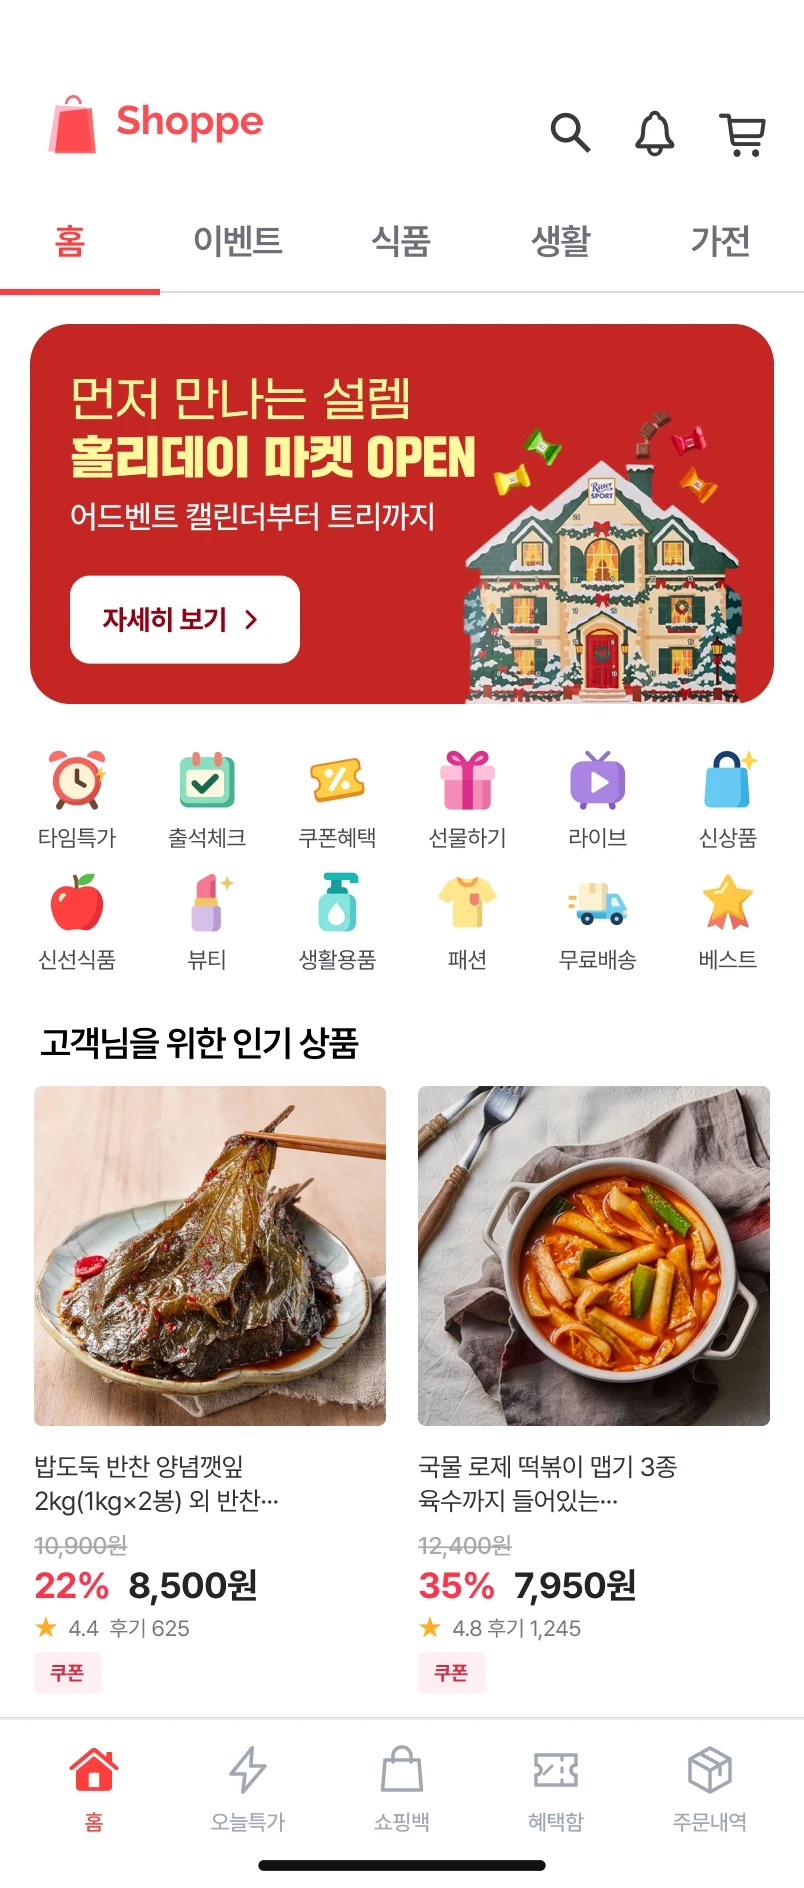
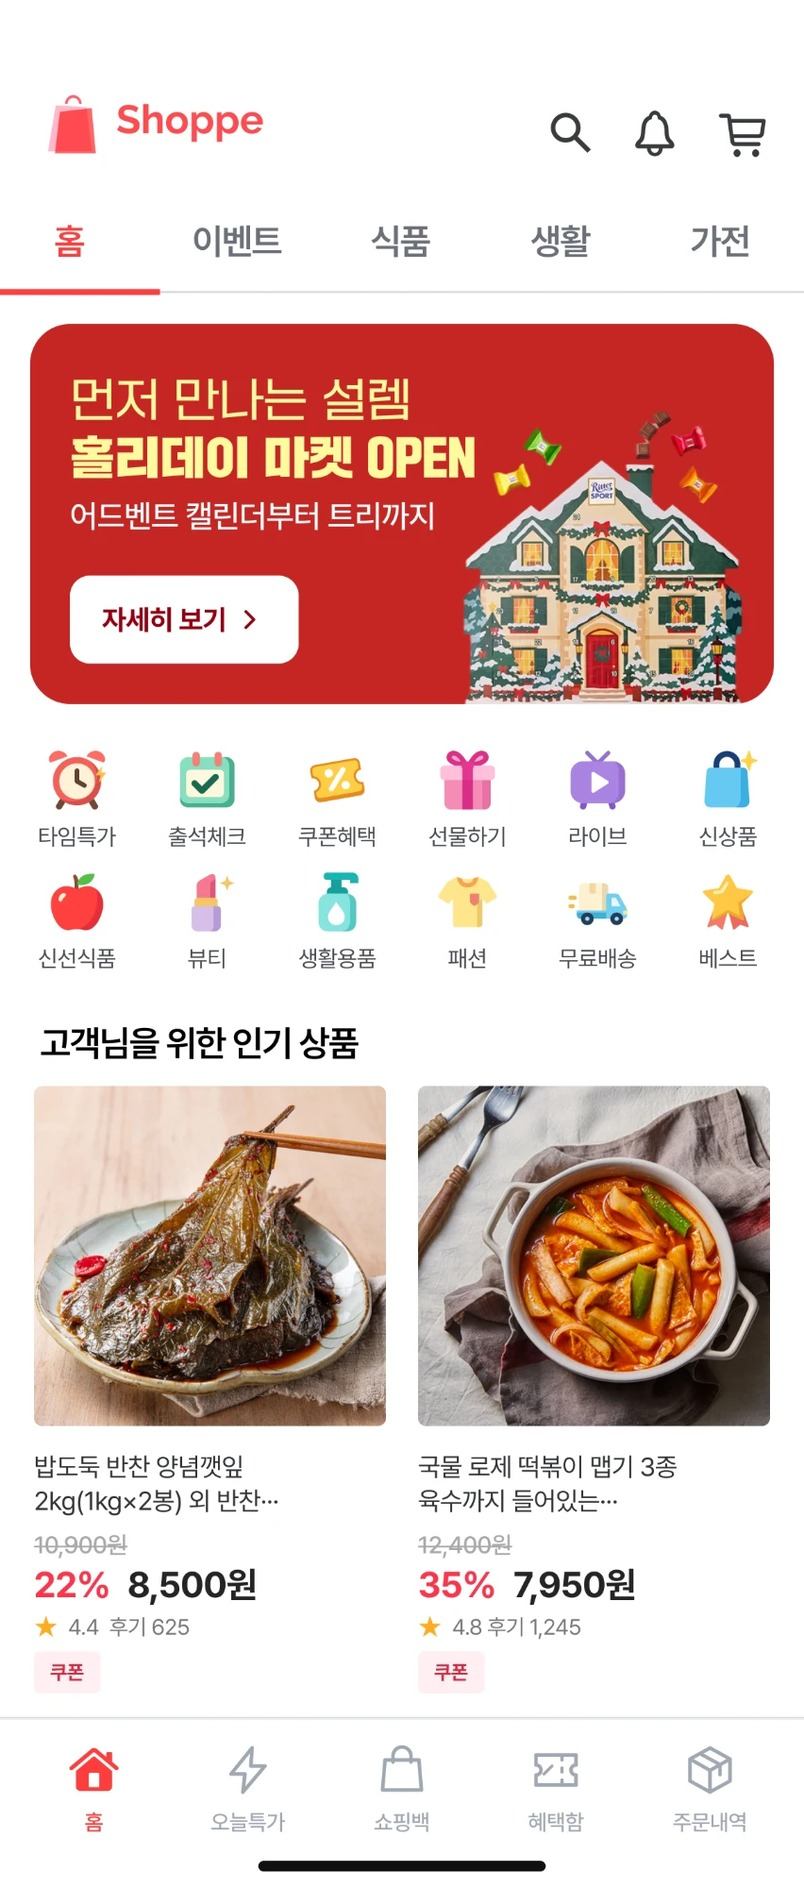
update stimuli (261124): 고해상도 자극물로 교체, 캐시 버전 v=4

diff --git a/index.html b/index.html
@@ -268,7 +268,7 @@ th { background: var(--bg); position: sticky; top: 0; }
     return GROUP_ORDERS[g] ? Number(g) : 1;
   })();
   const ORDER = GROUP_ORDERS[GROUP].split("");
-  const IMG = { base: "base.jpg?v=3", home: "home.jpg", A: "A.jpg?v=3", B: "B.jpg?v=3", C: "C.jpg?v=3", D: "D.jpg?v=3" };
+  const IMG = { base: "base.jpg?v=4", home: "home.jpg", A: "A.jpg?v=4", B: "B.jpg?v=4", C: "C.jpg?v=4", D: "D.jpg?v=4" };
   const COND = {
     A: "동일 광고 · 팝업", B: "동일 광고 · 고정 배너",
     C: "다른 광고 · 팝업", D: "다른 광고 · 고정 배너"
